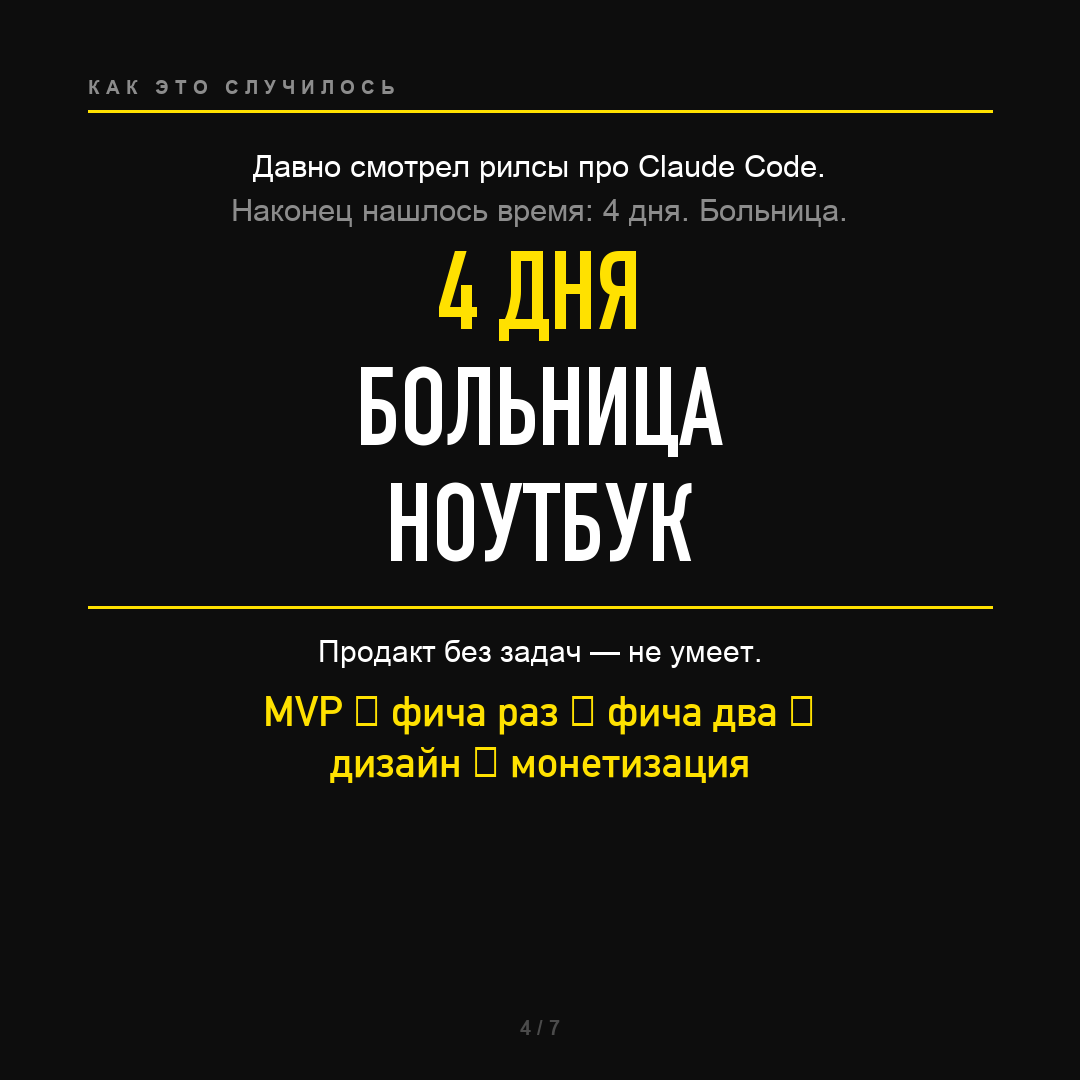
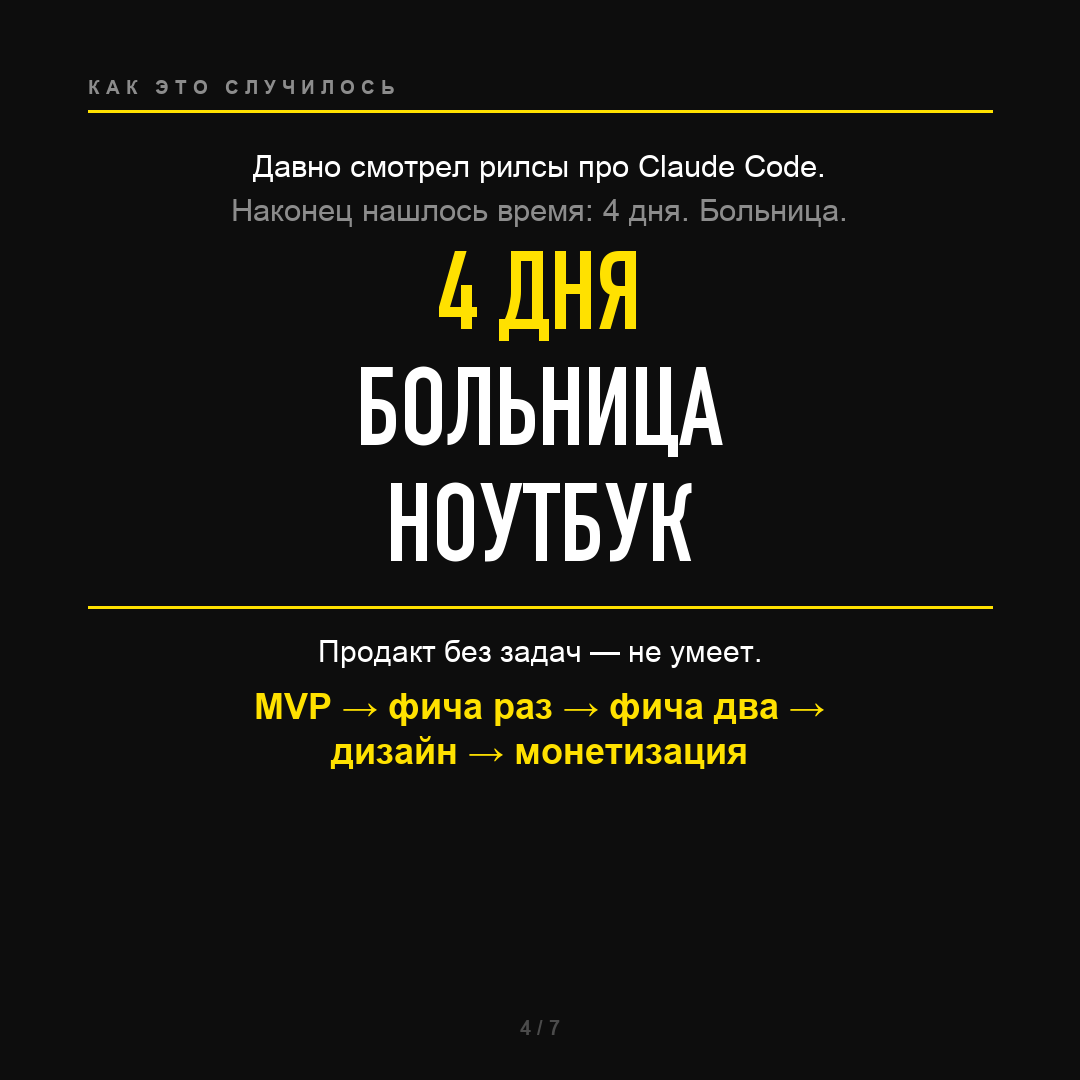
auto-sync 2026-05-23 17:33

Changed region(s): [[0.2139, 0.6417, 0.7639, 0.7333]]

diff --git a/marketing/cards/cards v2/generate_v2.py b/marketing/cards/cards v2/generate_v2.py
@@ -198,8 +198,8 @@ def card_04():
     lines = [
         ("Продакт без задач — не умеет.",          body(30), WHITE),
         ("",                                        body(16), GREY),
-        ("MVP → фича раз → фича два →",            med(42),  YELLOW),
-        ("дизайн → монетизация",                   med(42),  YELLOW),
+        ("MVP → фича раз → фича два →",            bold(36),  YELLOW),
+        ("дизайн → монетизация",                   bold(36),  YELLOW),
     ]
     draw_block(img, draw, lines, 634, line_gap=12)
 
